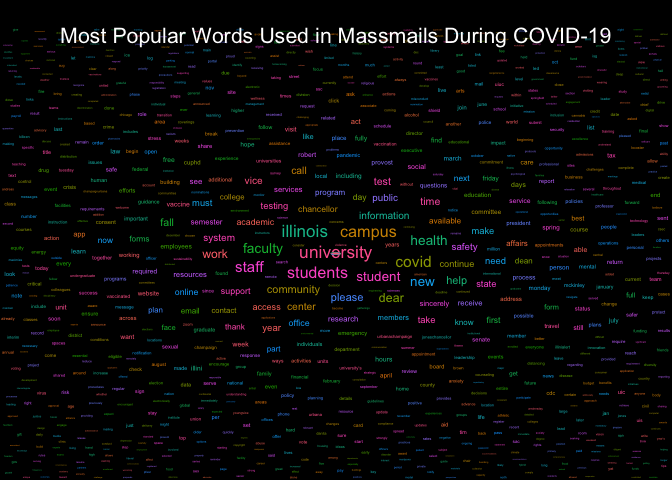
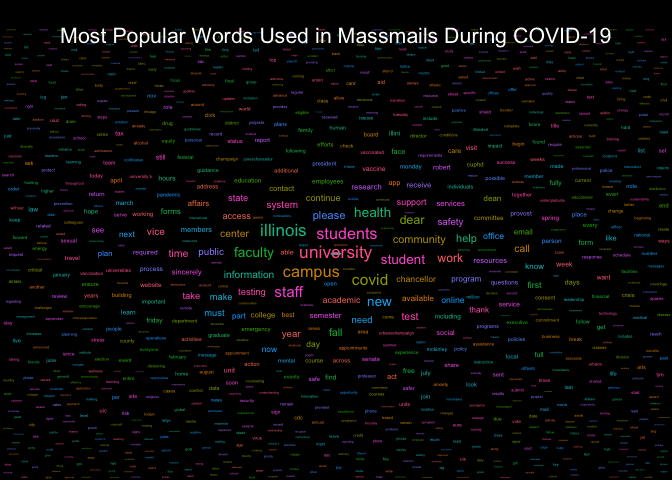
Re-build README.Rmd and Graphs

Changed region(s): [[0.0, 0.0625, 1.0, 1.0]]

diff --git a/README.md b/README.md
@@ -17,7 +17,7 @@ The archive may be viewed here:
 
 <https://massmail.illinois.edu/massmailArchive>
 
-Data has **1850** observations and **7** variables:
+Data has **1851** observations and **7** variables:
 
 - `datetime`: Date and time when the email was sent in the form of
   `YYYY-MM-DD HMS` with either CDT or CST.
@@ -210,11 +210,11 @@ head(most_popular_words, 10) %>%
 
 | word        | freq |
 |:------------|-----:|
-| university  | 2383 |
-| students    | 1976 |
-| campus      | 1746 |
-| illinois    | 1602 |
-| student     | 1185 |
+| university  | 2385 |
+| students    | 1978 |
+| campus      | 1750 |
+| illinois    | 1603 |
+| student     | 1196 |
 | faculty     | 1125 |
 | covid       | 1070 |
 | community   | 1061 |
